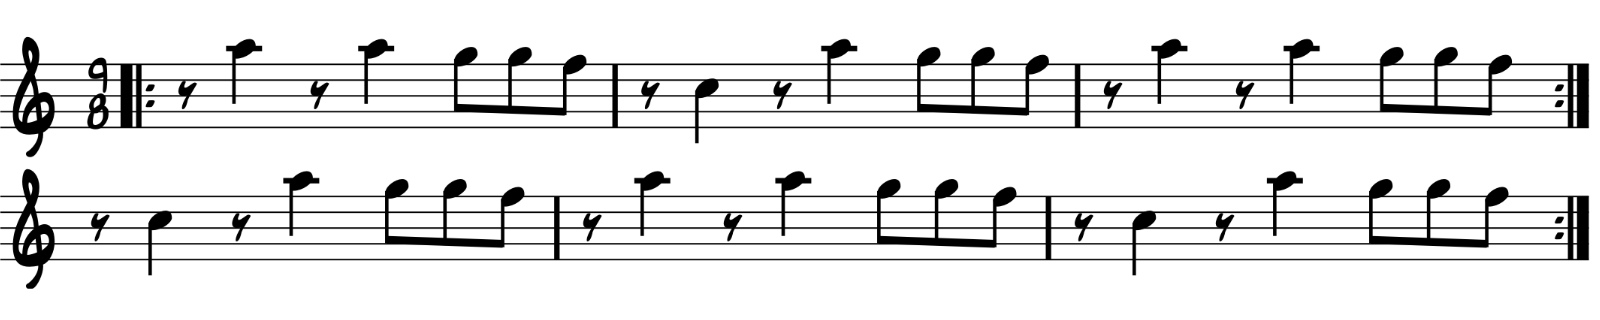
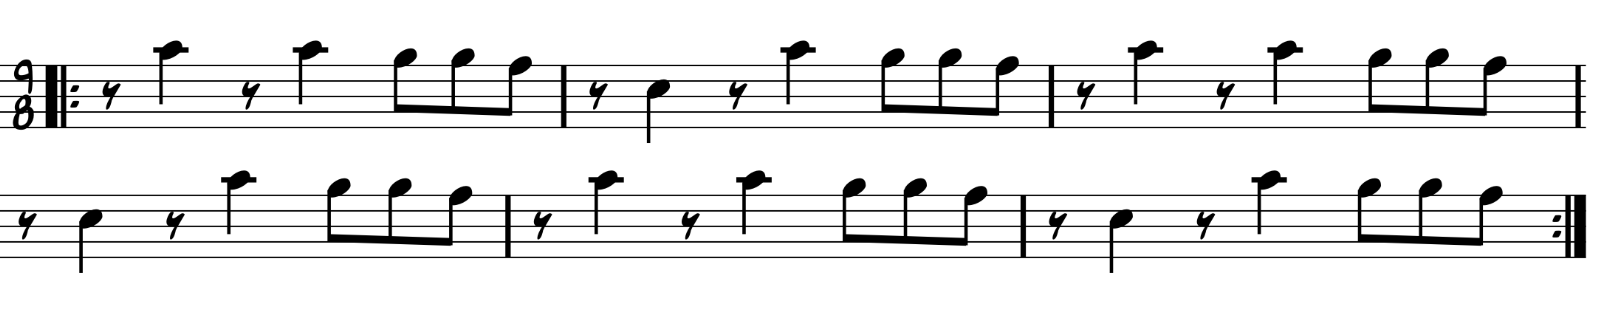
repenique

Changed region(s): [[0.0, 0.5312, 1.0, 0.9062], [0.0, 0.125, 1.0, 0.5]]

diff --git a/mosaic_webcodecs.html b/mosaic_webcodecs.html
@@ -689,7 +689,7 @@ const MOSAICS={
     // except Kit (index 6 below — first real per-tile notation strip, Aug
     // 31 2026 — see notationStripByIndex and renderNotationStrip()).
     notationStrip:'Mosaic/Shared/notation_strip_placeholder.png',
-    notationStripByIndex:{0:'Mosaic/Flip_Swing/01_bass_flipswing.png',1:'Mosaic/Flip_Swing/02_coro_flipswing.png',2:'Mosaic/Flip_Swing/02_coro_flipswing.png',4:'Mosaic/Flip_Swing/05_guitar1_flipswing.png',5:'Mosaic/Flip_Swing/06_guitar2_flipswing.png',6:'Mosaic/Flip_Swing/07_kit_flipswing.png'},
+    notationStripByIndex:{0:'Mosaic/Flip_Swing/01_bass_flipswing.png',1:'Mosaic/Flip_Swing/02_coro_flipswing.png',2:'Mosaic/Flip_Swing/02_coro_flipswing.png',3:'Mosaic/Flip_Swing/04_repenique_flipswing.png',4:'Mosaic/Flip_Swing/05_guitar1_flipswing.png',5:'Mosaic/Flip_Swing/06_guitar2_flipswing.png',6:'Mosaic/Flip_Swing/07_kit_flipswing.png'},
     names:['Bass','Coro 1','Coro 2','Repenique','Guitar 1','Guitar 2','Kit'],
     videoBase:'https://pub-ec95ace9fd674c938cb3ca372a1f8c5a.r2.dev/flip_swing_4x2_1920x960_',
     // Same reason as Congo above — these need the full R2 URL, not a bare name.
